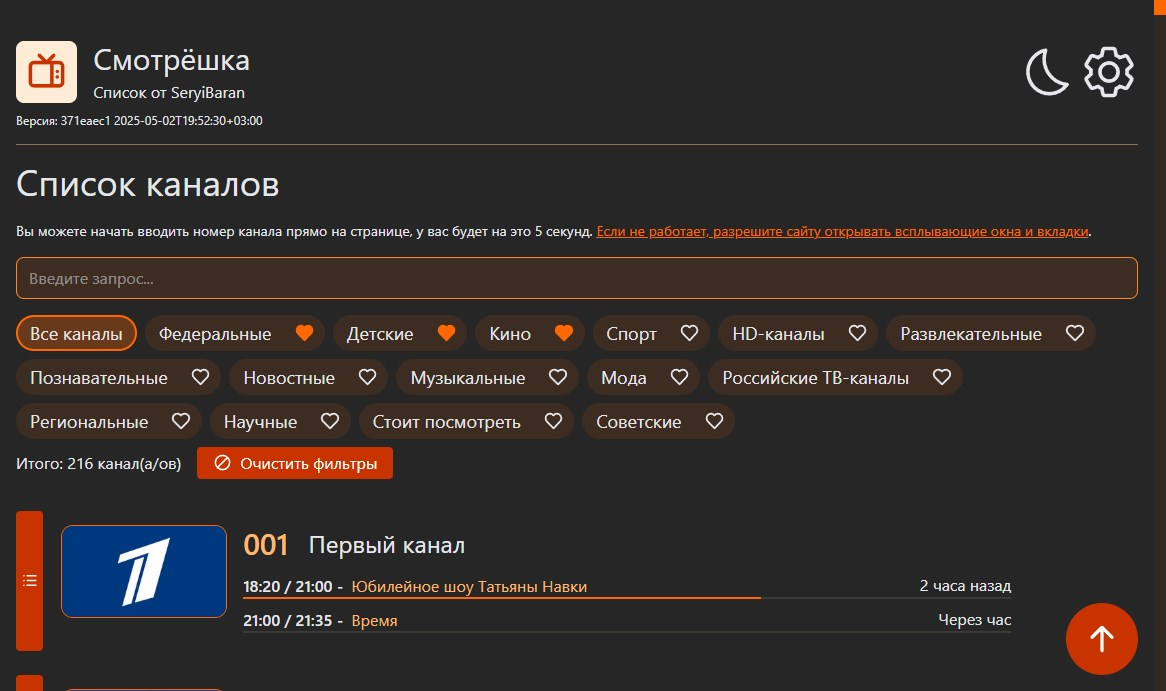
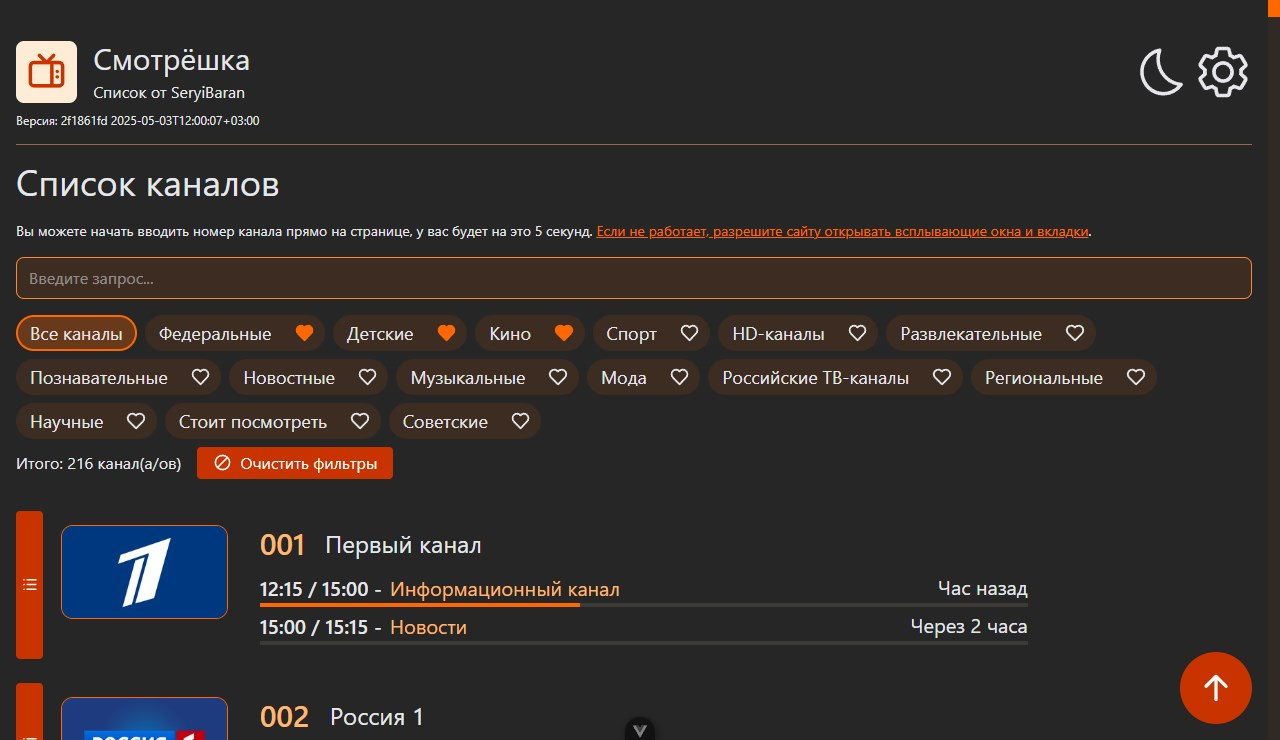
docs: readme

diff --git a/src/components/ChannelsItem.vue b/src/components/ChannelsItem.vue
@@ -61,7 +61,7 @@ watch(itemIsVisible, (newValue) => {
 </script>
 
 <template>
-  <li ref="item" :data-modalid="modalId" class="channelsItem flex" :class="{ isCompactMode: (settingsStore.channelsListMode === 'compact'), isLogosMode: (settingsStore.channelsListMode === 'logos') }">
+  <li ref="item" :data-modalid="modalId" class="channelsItem flex" :class="{ isCompactMode: (settingsStore.channelsListMode === 'compact'), isLogosMode: (settingsStore.channelsListMode === 'logos'), notShowPrograms: !settingsStore.isShowPrograms }">
     <button v-if="settingsStore.channelsListMode !== 'logos'" class="showEpgBtn colorsTransition btn btn-with-icon" @click="() => handleShowEPG()">
       <span class="transitionColors i-tabler:list text-4 block 2xl:text-6" />
     </button>
@@ -86,10 +86,10 @@ watch(itemIsVisible, (newValue) => {
           <div class="chLogoOverlayProgressSlider" :style="{ width: `${currentProgramPercent}%` }" />
         </div>
       </div>
-      <div v-if="settingsStore.channelsListMode !== 'logos'" class="wrapper w-full">
+      <div v-if="settingsStore.channelsListMode !== 'logos'" class="channelsItemInfoWrapper wrapper w-full">
         <div class="channelTitle flex gap-5 items-center">
           <span class="channelNumber">{{ formatKeyNumber(props.channel.keyNumber) }}</span>
-          <span class="channelName text-2xl 2xl:text-4xl">{{ props.channel.title }}</span>
+          <span class="channelName">{{ props.channel.title }}</span>
         </div>
         <template v-if="(settingsStore.channelsListMode !== 'compact') && settingsStore.isShowPrograms">
           <!-- TODO: figure, why this <Programs> lag, but <Programs> in modal not lags -->
@@ -124,7 +124,7 @@ watch(itemIsVisible, (newValue) => {
 
 <style scoped>
 a.channelLink {
-  @apply border border-2 border-transparent rounded-3 hover:border-brand-500 hover:bg-brand-500/15 hover:dark:bg-brand-500/12 p-4 flex gap-4 h-full w-full overflow-hidden;
+  @apply border border-2 border-transparent rounded-3 hover:border-brand-500 hover:bg-brand-500/15 hover:dark:bg-brand-500/12 p-4 flex gap-4 xl:gap-8 h-full w-full overflow-hidden;
 }
 
 li.isCompactMode {
@@ -148,7 +148,23 @@ li.isCompactMode .channelTitle {
 }
 
 .channelNumber {
-  @apply text-3xl text-brand-800 font-semibold 2xl:text-5xl dark:text-brand-300;
+  @apply text-3xl 2xl:text-5xl text-brand-800 font-semibold dark:text-brand-300;
+}
+
+.channelName {
+  @apply text-2xl 2xl:text-4xl;
+}
+
+.notShowPrograms .channelsItemInfoWrapper {
+  @apply flex items-center;
+}
+
+.notShowPrograms .channelNumber {
+  @apply md:text-5xl 2xl:text-6xl;
+}
+
+.notShowPrograms .channelName {
+  @apply md:text-4xl 2xl:text-5xl;
 }
 
 li.isCompactMode .channelNumber {

diff --git a/README.md b/README.md
@@ -4,8 +4,23 @@
 
 Основано на [vitesse-lite](https://github.com/antfu/vitesse-lite)
 
+## [Открыть](https://seryibaran.github.io/smotreshka_list)
+
+## Фичи
+
+- 🔍 Fuzzy-Поиск по номеру и названию канала ([2 скриншот выше](./readme_assets/2.jpg))
+- 🎨 Кастомизация ([скриншот](./readme_assets/2.jpg), [скриншот настроек](./readme_assets/4.png))
+- ✨ Набор номера с клавиатуры ([скриншот](./readme_assets/3.jpg))
+- ✨ Удобный просмотр программ ([скриншот 1](./readme_assets/5.jpg), [скриншот 2](./readme_assets/6.jpg), [скриншот 3](./readme_assets/7.jpg), [скриншот 4](./readme_assets/8.jpg), [скриншот 5](./readme_assets/9.jpg))
+
 ## Скриншоты
 
 ![1](./readme_assets/1.jpg)
 ![2](./readme_assets/2.jpg)
 ![3](./readme_assets/3.jpg)
+![4](./readme_assets/4.png)
+![5](./readme_assets/5.jpg)
+![6](./readme_assets/6.jpg)
+![7](./readme_assets/7.jpg)
+![8](./readme_assets/8.jpg)
+![9](./readme_assets/9.jpg)
